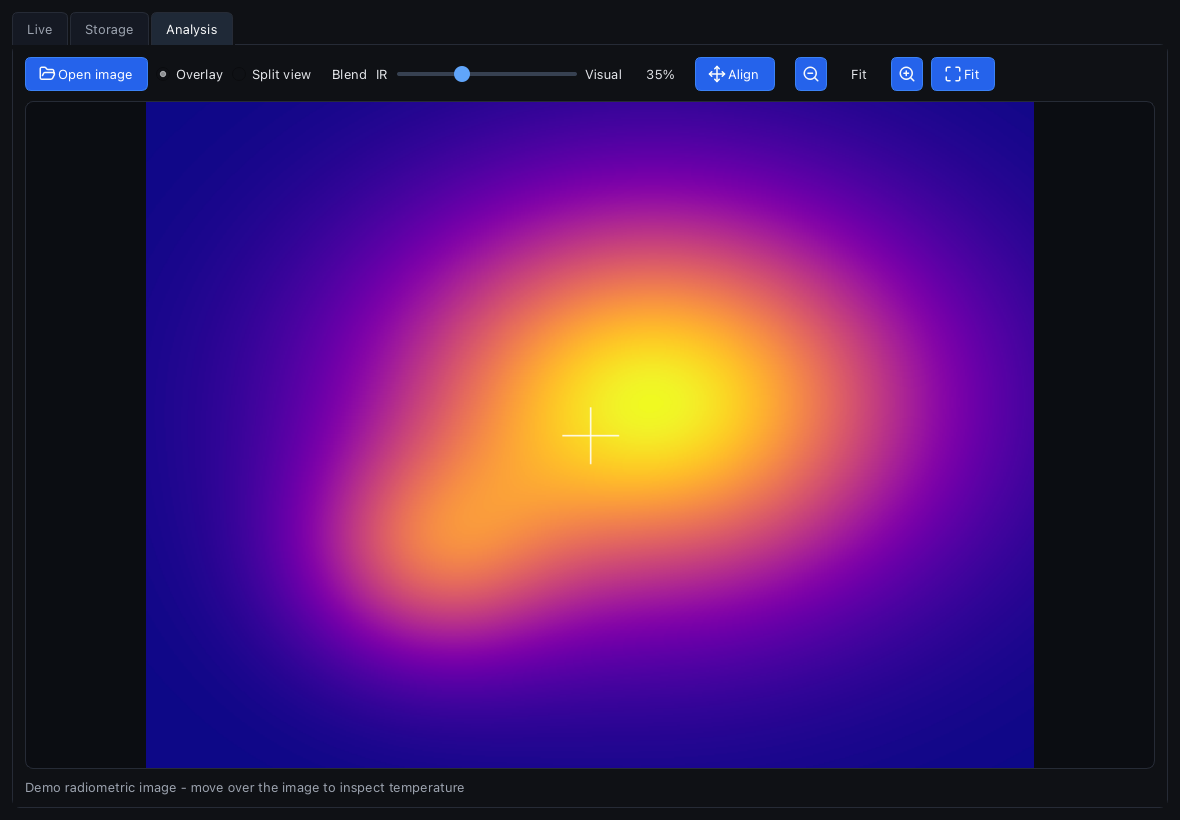
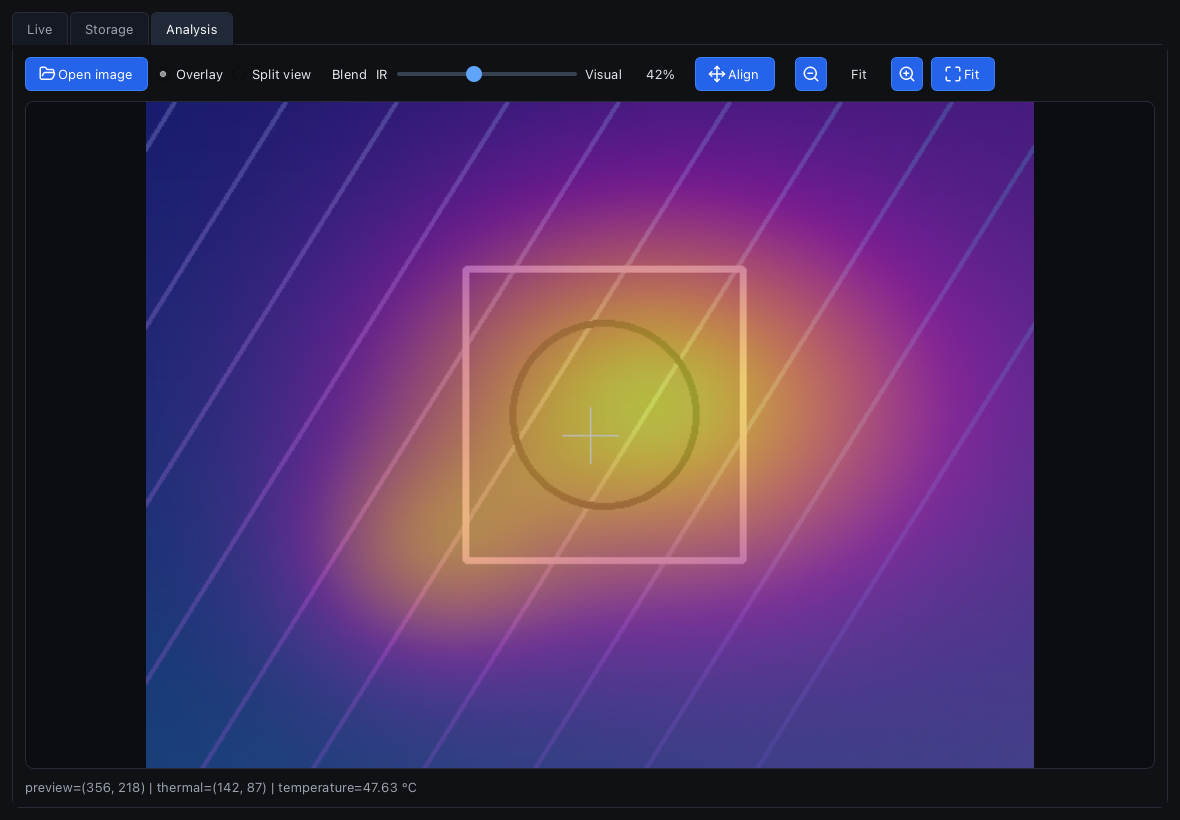
Add overlay/split view screenshots

diff --git a/README.md b/README.md
@@ -18,7 +18,9 @@ Screenshots below use generated demo data.
 
 ![Storage browser](docs/screenshots/storage.png)
 
-![Analysis view](docs/screenshots/analysis.png)
+![Analysis overlay mode](docs/screenshots/analysis.png)
+
+![Analysis split view](docs/screenshots/analysis-split-view.png)
 
 ## Requirements
 